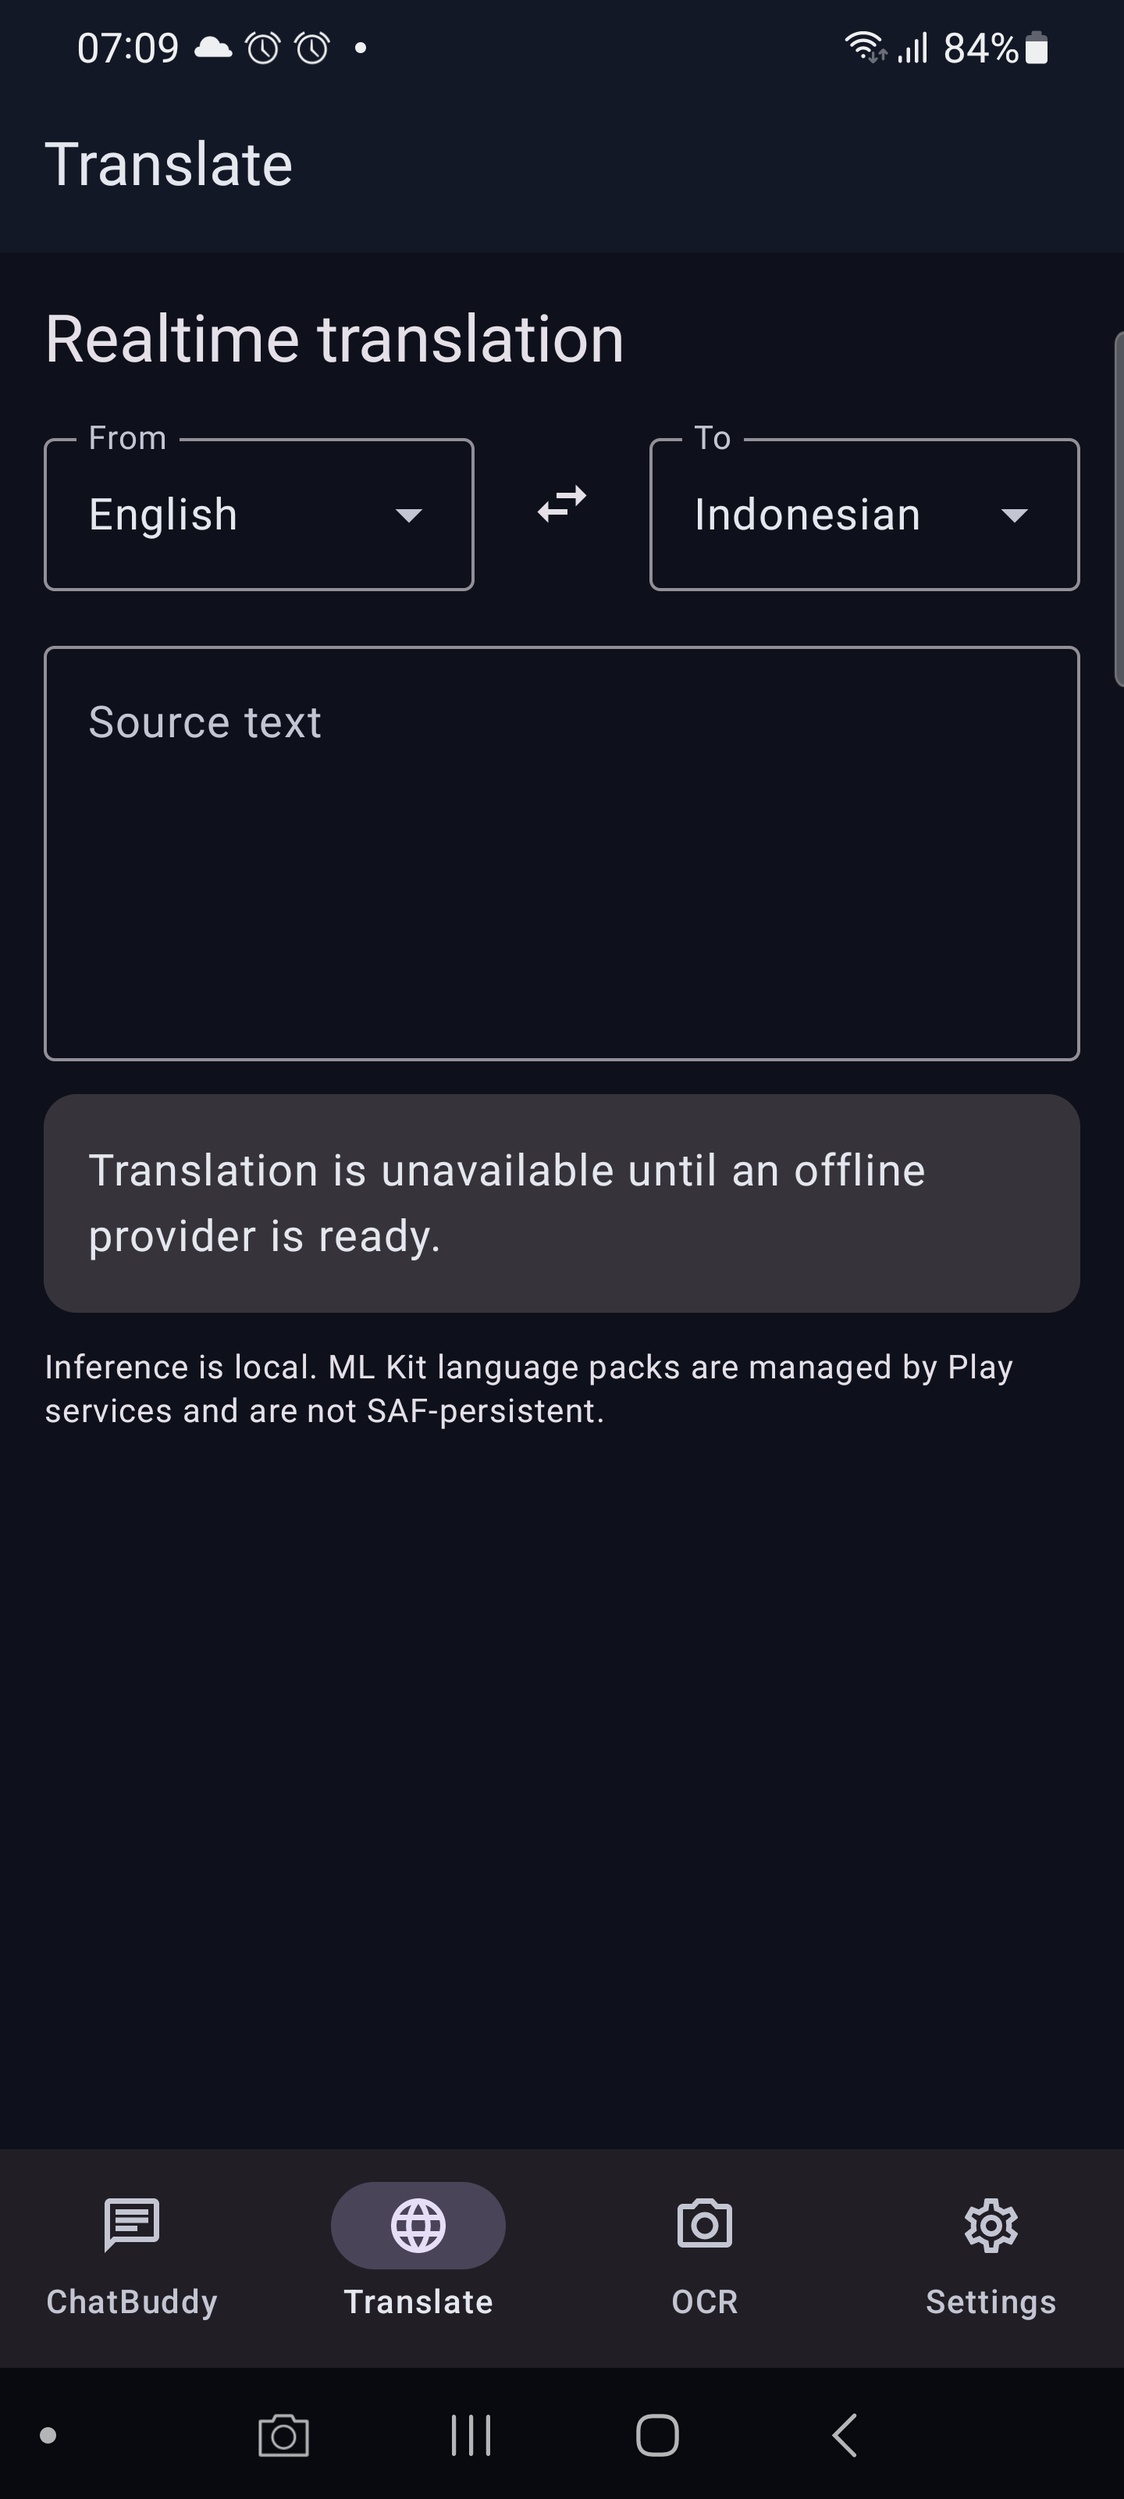
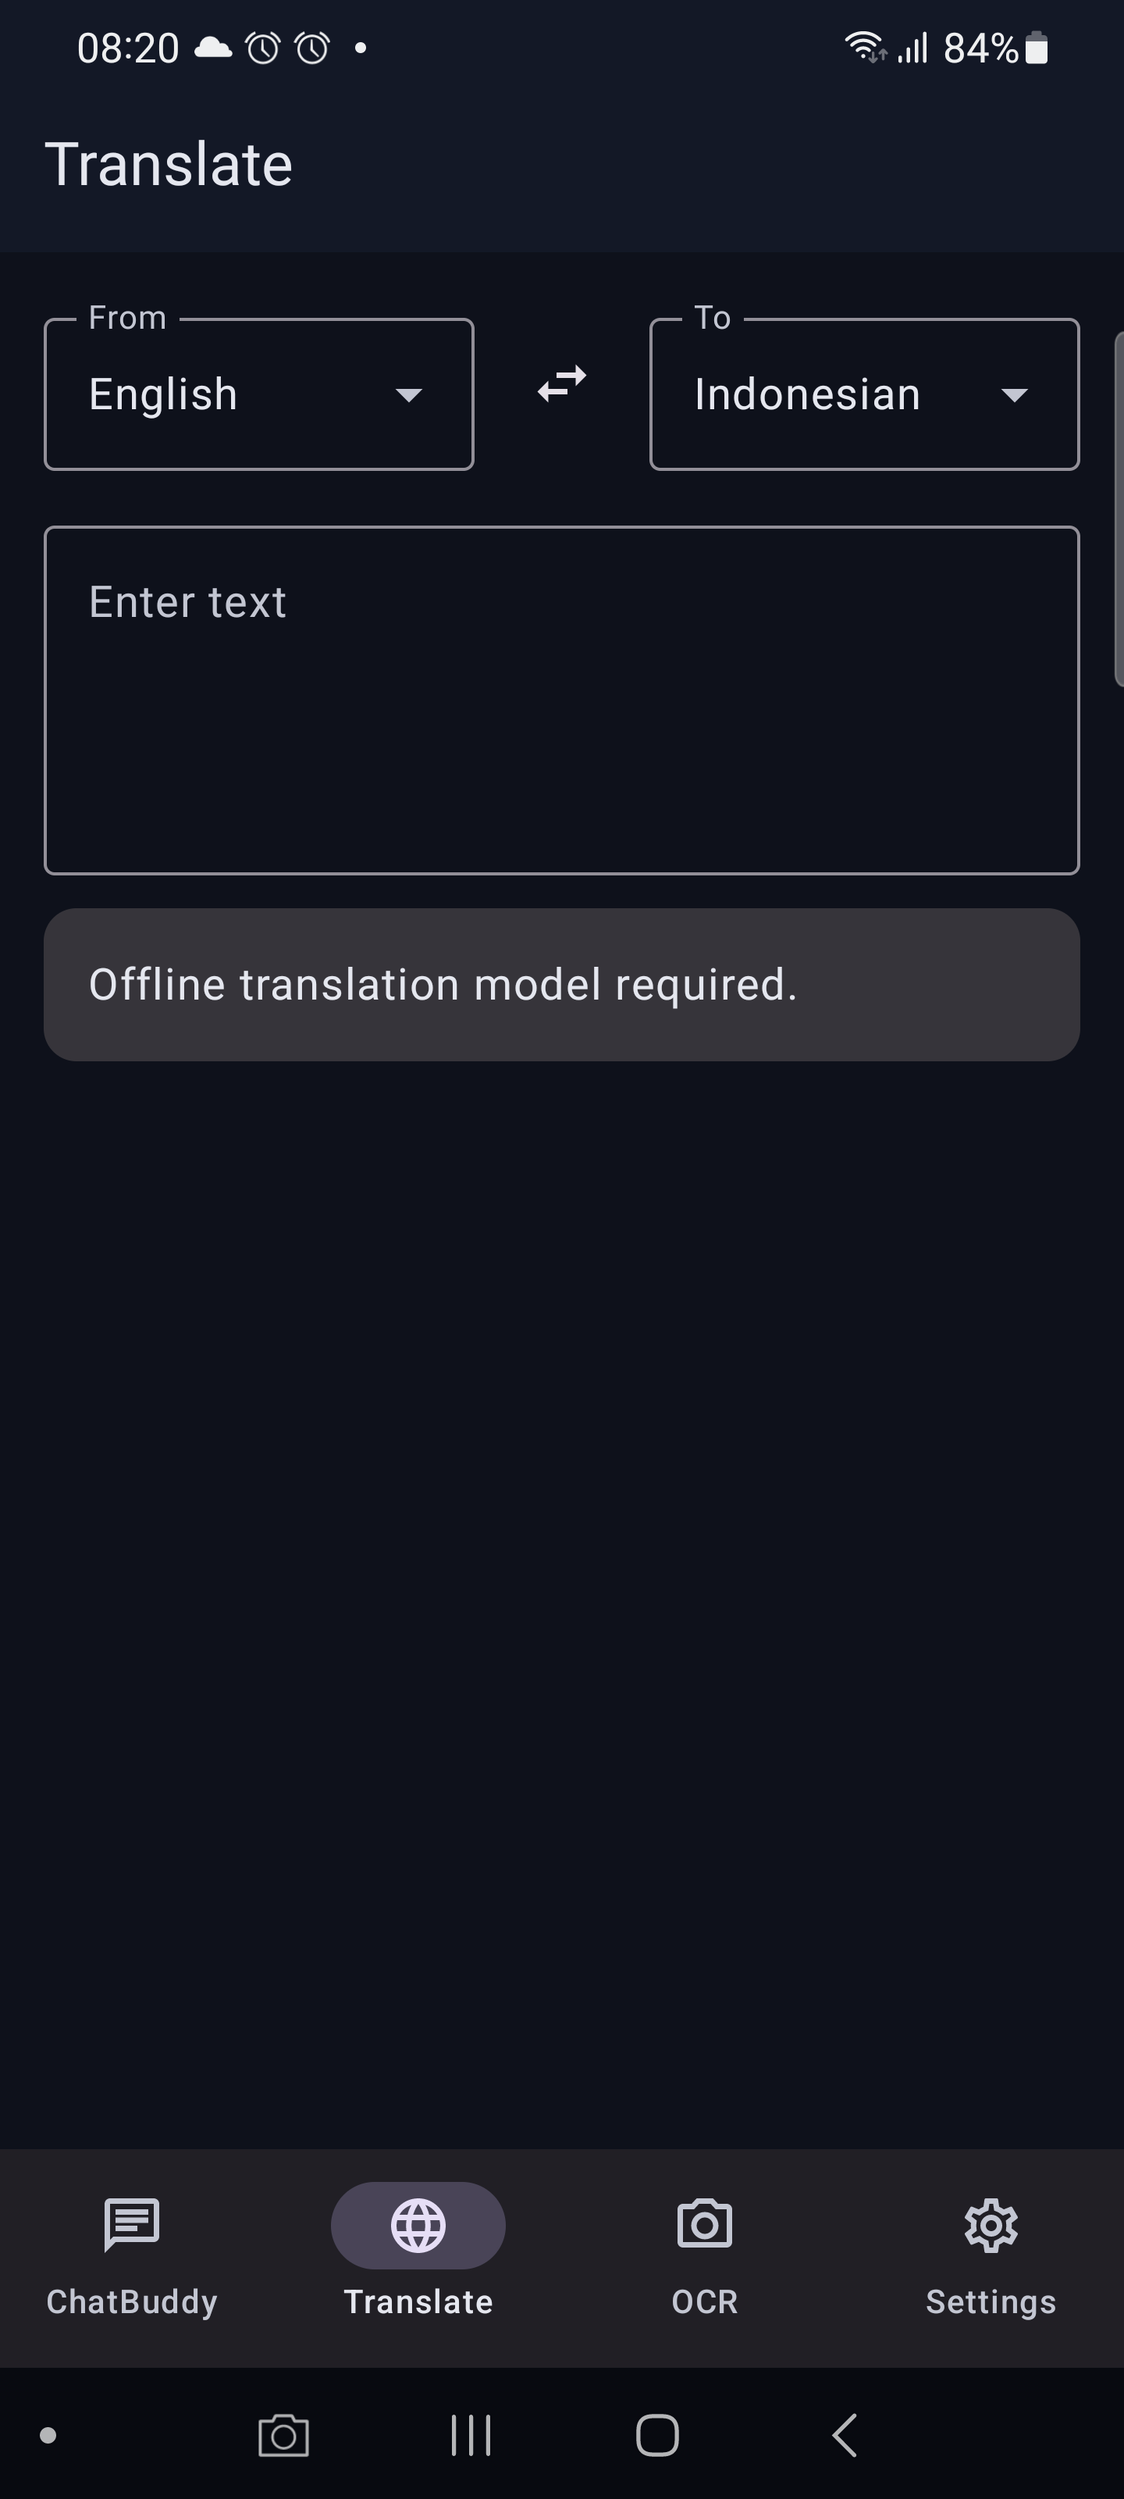
fix: make translation language dropdown searchable

diff --git a/app/src/main/java/com/chatbuddy/presentation/ChatBuddyApp.kt b/app/src/main/java/com/chatbuddy/presentation/ChatBuddyApp.kt
@@ -34,11 +34,8 @@ import androidx.compose.material3.Button
 import androidx.compose.material3.Checkbox
 import androidx.compose.material3.Card
 import androidx.compose.material3.ExperimentalMaterial3Api
-import androidx.compose.material3.ExposedDropdownMenuBox
-import androidx.compose.material3.ExposedDropdownMenuDefaults
 import androidx.compose.material3.Icon
 import androidx.compose.material3.IconButton
-import androidx.compose.material3.DropdownMenuItem
 import androidx.compose.material3.LinearProgressIndicator
 import androidx.compose.material3.MaterialTheme
 import androidx.compose.material3.NavigationBar
@@ -74,13 +71,14 @@ import androidx.compose.material3.windowsizeclass.WindowSizeClass
 import androidx.compose.material3.windowsizeclass.WindowWidthSizeClass
 import androidx.compose.material3.windowsizeclass.ExperimentalMaterial3WindowSizeClassApi
 import com.chatbuddy.domain.model.ModelStatus
-import com.chatbuddy.domain.model.LanguageOption
+import com.chatbuddy.domain.model.TranslationProviderKind
 import com.chatbuddy.presentation.common.ModelGate
 import com.chatbuddy.presentation.home.HomeTab
 import com.chatbuddy.presentation.home.HomeUiState
 import com.chatbuddy.presentation.home.HomeViewModel
 import com.chatbuddy.presentation.chat.ChatViewModel
 import com.chatbuddy.presentation.translate.TranslationViewModel
+import com.chatbuddy.presentation.translate.LanguageDropdown
 import com.chatbuddy.presentation.ocr.OcrViewModel
 import com.chatbuddy.presentation.ocr.CameraPreview
 import com.chatbuddy.presentation.settings.PersonaViewModel
@@ -227,7 +225,6 @@ private fun TranslateTab(state: HomeUiState, homeViewModel: HomeViewModel) {
         }
     }
     Column(verticalArrangement = Arrangement.spacedBy(12.dp)) {
-        Text("Realtime translation", style = MaterialTheme.typography.headlineSmall)
         Row(
             modifier = Modifier.fillMaxWidth(),
             horizontalArrangement = Arrangement.spacedBy(8.dp),
@@ -257,15 +254,16 @@ private fun TranslateTab(state: HomeUiState, homeViewModel: HomeViewModel) {
         OutlinedTextField(
             value = translationState.sourceText,
             onValueChange = viewModel::setSourceText,
-            label = { Text("Source text") },
+            label = { Text("Enter text") },
             modifier = Modifier.fillMaxWidth(),
-            minLines = 5
+            minLines = 4,
+            maxLines = 8
         )
         Card(modifier = Modifier.fillMaxWidth()) {
             Column(modifier = Modifier.padding(16.dp), verticalArrangement = Arrangement.spacedBy(8.dp)) {
                 Text(
                     translationState.result?.text.orEmpty().ifBlank {
-                        "Translation is unavailable until an offline provider is ready."
+                        "Offline translation model required."
                     }
                 )
                 if (translationState.loading) LinearProgressIndicator(modifier = Modifier.fillMaxWidth())
@@ -275,62 +273,19 @@ private fun TranslateTab(state: HomeUiState, homeViewModel: HomeViewModel) {
                         val context = LocalContext.current
                         IconButton(onClick = { clipboard.setText(AnnotatedString(result.text)) }) { Icon(Icons.Outlined.ContentCopy, "Copy translation") }
                         IconButton(onClick = { shareText(context, result.text) }) { Icon(Icons.Outlined.Share, "Share translation") }
-                        Text(result.provider.name, modifier = Modifier.padding(start = 8.dp, top = 12.dp), style = MaterialTheme.typography.labelSmall)
+                        Text(providerLabel(result.provider), modifier = Modifier.padding(start = 8.dp, top = 12.dp), style = MaterialTheme.typography.labelSmall)
                     }
                 }
                 translationState.error?.let { Text(it, color = MaterialTheme.colorScheme.error) }
             }
         }
-        Text("Inference is local. ML Kit language packs are managed by Play services and are not SAF-persistent.", style = MaterialTheme.typography.bodySmall)
     }
 }
 
-@OptIn(ExperimentalMaterial3Api::class)
-@Composable
-private fun LanguageDropdown(
-    label: String,
-    selected: String,
-    languages: List<LanguageOption>,
-    onSelected: (String) -> Unit,
-    modifier: Modifier = Modifier
-) {
-    var expanded by rememberSaveable(label) { mutableStateOf(false) }
-    val selectedLanguage = languages.firstOrNull { it.tag == selected }
-    val isAvailable = languages.isNotEmpty()
-
-    ExposedDropdownMenuBox(
-        expanded = expanded,
-        onExpandedChange = { expanded = it },
-        modifier = modifier
-    ) {
-        OutlinedTextField(
-            value = selectedLanguage?.displayName ?: selected.ifBlank { "Unavailable" },
-            onValueChange = {},
-            readOnly = true,
-            enabled = isAvailable,
-            singleLine = true,
-            label = { Text(label) },
-            trailingIcon = { ExposedDropdownMenuDefaults.TrailingIcon(expanded = expanded) },
-            modifier = Modifier
-                .menuAnchor()
-                .fillMaxWidth()
-                .semantics { contentDescription = "$label language selector" }
-        )
-        ExposedDropdownMenu(
-            expanded = expanded,
-            onDismissRequest = { expanded = false }
-        ) {
-            languages.forEach { language ->
-                DropdownMenuItem(
-                    text = { Text(language.displayName) },
-                    onClick = {
-                        expanded = false
-                        onSelected(language.tag)
-                    }
-                )
-            }
-        }
-    }
+private fun providerLabel(provider: TranslationProviderKind): String = when (provider) {
+    TranslationProviderKind.ML_KIT_PLAY_SERVICES -> "Play services"
+    TranslationProviderKind.LOCAL_OPUS_ONNX -> "Local model"
+    TranslationProviderKind.UNAVAILABLE -> "Unavailable"
 }
 
 @Composable

diff --git a/app/src/main/java/com/chatbuddy/presentation/translate/LanguageDropdown.kt b/app/src/main/java/com/chatbuddy/presentation/translate/LanguageDropdown.kt
@@ -1,0 +1,100 @@
+package com.chatbuddy.presentation.translate
+
+import androidx.compose.foundation.layout.fillMaxWidth
+import androidx.compose.foundation.layout.heightIn
+import androidx.compose.foundation.text.KeyboardOptions
+import androidx.compose.material3.DropdownMenuItem
+import androidx.compose.material3.ExperimentalMaterial3Api
+import androidx.compose.material3.ExposedDropdownMenuBox
+import androidx.compose.material3.ExposedDropdownMenuDefaults
+import androidx.compose.material3.OutlinedTextField
+import androidx.compose.material3.Text
+import androidx.compose.runtime.Composable
+import androidx.compose.runtime.LaunchedEffect
+import androidx.compose.runtime.getValue
+import androidx.compose.runtime.mutableStateOf
+import androidx.compose.runtime.remember
+import androidx.compose.runtime.saveable.rememberSaveable
+import androidx.compose.runtime.setValue
+import androidx.compose.ui.Modifier
+import androidx.compose.ui.semantics.contentDescription
+import androidx.compose.ui.semantics.semantics
+import androidx.compose.ui.text.input.ImeAction
+import androidx.compose.ui.unit.dp
+import com.chatbuddy.domain.model.LanguageOption
+import java.util.Locale
+
+@OptIn(ExperimentalMaterial3Api::class)
+@Composable
+internal fun LanguageDropdown(
+    label: String,
+    selected: String,
+    languages: List<LanguageOption>,
+    onSelected: (String) -> Unit,
+    modifier: Modifier = Modifier
+) {
+    var expanded by rememberSaveable(label) { mutableStateOf(false) }
+    var query by rememberSaveable("${label}Query") { mutableStateOf("") }
+    val selectedLanguage = languages.firstOrNull { it.tag == selected }
+    val canExpand = languages.isNotEmpty()
+    val filteredLanguages = remember(languages, query) {
+        val normalizedQuery = query.trim().lowercase(Locale.ROOT)
+        languages.filter { language ->
+            normalizedQuery.isBlank() ||
+                language.displayName.lowercase(Locale.ROOT).contains(normalizedQuery) ||
+                language.tag.lowercase(Locale.ROOT).contains(normalizedQuery)
+        }
+    }
+    val menuExpanded = expanded && filteredLanguages.isNotEmpty()
+
+    LaunchedEffect(selected, selectedLanguage?.displayName) {
+        query = selectedLanguage?.displayName ?: selected.ifBlank { "" }
+    }
+
+    ExposedDropdownMenuBox(
+        expanded = menuExpanded,
+        onExpandedChange = {
+            if (canExpand) {
+                expanded = it
+                if (it) query = ""
+            }
+        },
+        modifier = modifier
+    ) {
+        OutlinedTextField(
+            value = query,
+            onValueChange = {
+                query = it
+                expanded = canExpand
+            },
+            enabled = canExpand,
+            singleLine = true,
+            label = { Text(label) },
+            keyboardOptions = KeyboardOptions(imeAction = ImeAction.Search),
+            trailingIcon = { ExposedDropdownMenuDefaults.TrailingIcon(expanded = menuExpanded) },
+            modifier = Modifier
+                .menuAnchor()
+                .fillMaxWidth()
+                .semantics { contentDescription = "$label language search" }
+        )
+        ExposedDropdownMenu(
+            expanded = menuExpanded,
+            onDismissRequest = {
+                expanded = false
+                query = selectedLanguage?.displayName ?: selected.ifBlank { "" }
+            },
+            modifier = Modifier.heightIn(max = 280.dp)
+        ) {
+            filteredLanguages.forEach { language ->
+                DropdownMenuItem(
+                    text = { Text(language.displayName) },
+                    onClick = {
+                        query = language.displayName
+                        expanded = false
+                        onSelected(language.tag)
+                    }
+                )
+            }
+        }
+    }
+}

diff --git a/app/src/androidTest/java/com/chatbuddy/presentation/translate/LanguageDropdownTest.kt b/app/src/androidTest/java/com/chatbuddy/presentation/translate/LanguageDropdownTest.kt
@@ -1,0 +1,76 @@
+package com.chatbuddy.presentation.translate
+
+import androidx.compose.ui.test.assertIsDisplayed
+import androidx.compose.ui.test.hasSetTextAction
+import androidx.compose.ui.test.onAllNodesWithText
+import androidx.compose.ui.test.onNodeWithText
+import androidx.compose.ui.test.performClick
+import androidx.compose.ui.test.performTextClearance
+import androidx.compose.ui.test.performTextInput
+import androidx.compose.ui.test.junit4.createComposeRule
+import androidx.compose.material3.Text
+import androidx.compose.runtime.getValue
+import androidx.compose.runtime.mutableStateOf
+import androidx.compose.runtime.setValue
+import androidx.compose.ui.Modifier
+import com.chatbuddy.domain.model.LanguageOption
+import com.chatbuddy.ui.theme.ChatBuddyTheme
+import org.junit.Assert.assertEquals
+import org.junit.Rule
+import org.junit.Test
+
+class LanguageDropdownTest {
+    @get:Rule
+    val composeRule = createComposeRule()
+
+    @Test
+    fun inputFiltersLanguagesAndSelectingOptionUpdatesCallback() {
+        var selectedTag by mutableStateOf("en")
+        composeRule.setContent {
+            ChatBuddyTheme {
+                LanguageDropdown(
+                    label = "From",
+                    selected = selectedTag,
+                    languages = listOf(
+                        LanguageOption("en", "English"),
+                        LanguageOption("id", "Indonesian"),
+                        LanguageOption("ja", "Japanese")
+                    ),
+                    onSelected = { selectedTag = it },
+                    modifier = Modifier
+                )
+            }
+        }
+
+        val languageField = composeRule.onNode(hasSetTextAction())
+        languageField.performTextClearance()
+        languageField.performTextInput("indo")
+        assertEquals(
+            1,
+            composeRule.onAllNodesWithText("Indonesian").fetchSemanticsNodes().size
+        )
+        composeRule.onAllNodesWithText("Indonesian")[0]
+            .assertIsDisplayed()
+            .performClick()
+        composeRule.runOnIdle { assertEquals("id", selectedTag) }
+    }
+
+    @Test
+    fun emptyLanguageListDisablesInput() {
+        composeRule.setContent {
+            ChatBuddyTheme {
+                LanguageDropdown(
+                    label = "To",
+                    selected = "",
+                    languages = emptyList(),
+                    onSelected = {},
+                    modifier = Modifier
+                )
+                Text("Ready")
+            }
+        }
+
+        composeRule.onNodeWithText("To").assertIsDisplayed()
+        composeRule.onNodeWithText("Ready").assertIsDisplayed()
+    }
+}

diff --git a/README.md b/README.md
@@ -85,11 +85,11 @@ Device baseline yang direncanakan: Samsung `SM-G988B`, Android 13 (`RRCN3008VYE`
 - `:app:testDebugUnitTest` — pass.
 - `:app:lintDebug` — pass; lint menyisakan warning dependency/deprecation, tanpa error.
 - `:app:externalNativeBuildDebug` dan `:app:assembleDebug` — pass untuk `arm64-v8a` dan `armeabi-v7a`.
-- `:app:connectedDebugAndroidTest` — 2/2 pass pada `SM-G988B - 13`.
+- `:app:connectedDebugAndroidTest` — 5/5 pass pada `SM-G988B - 13`, termasuk editable language dropdown.
 - APK terbaru berhasil dipasang dan diluncurkan pada `RRCN3008VYE`; accessibility dump melaporkan package `com.chatbuddy`, tombol SAF, dan empat tab navigasi. Tidak ada `FATAL EXCEPTION` pada smoke log.
 - Preview aktual tersedia untuk onboarding, Translate, dropdown bahasa Translate, OCR, Settings, dan landscape. `preview/chatbuddy-device.png` adalah preview utama README.
-- `2026-08-20`: layar Translate diverifikasi pada `SM-G988B` dengan exposed dropdown `From`/`To`, popup daftar bahasa, tombol swap, dan layout compact portrait; tidak ada chip selector.
[1 lines of base64/hex data omitted]
+- `2026-08-20`: layar Translate diverifikasi pada `SM-G988B` dengan exposed autocomplete dropdown `From`/`To`, popup daftar bahasa, keyboard input, tombol swap, dan layout compact portrait; tidak ada chip selector.
[1 lines of base64/hex data omitted]
 
 Evidence ini membuktikan build, UI shell, navigation, dan launch; tidak membuktikan inferensi atau ingestion tanpa artifact model/runtime yang benar-benar diunduh dan diverifikasi.
 
@@ -97,7 +97,7 @@ Evidence ini membuktikan build, UI shell, navigation, dan launch; tidak membukti
 
 - `:app:compileDebugKotlin` dan `:app:compileDebugAndroidTestKotlin` — pass.
 - `:app:testDebugUnitTest`, `:app:lintDebug`, dan `:app:assembleDebug` — pass.
-- `:app:connectedDebugAndroidTest` — 3/3 pass pada `SM-G988B - 13`, termasuk callback Download dan Pause pada ModelGate.
+- `:app:connectedDebugAndroidTest` — 5/5 pass pada `SM-G988B - 13`, termasuk callback Download/Pause pada ModelGate dan filtering/selection language dropdown.
 - APK debug berhasil dipasang dan cold-launched pada `RRCN3008VYE`; `dumpsys` mengonfirmasi `com.chatbuddy/.MainActivity` sebagai resumed dan smoke log tidak menunjukkan crash aplikasi.
 - Transfer Gemma tidak dimulai otomatis selama smoke karena artifact sekitar 2.84 GB; state dan callback diuji tanpa menggunakan bandwidth/storage pengguna secara diam-diam. Sesi transfer nyata tetap membutuhkan tap pengguna, folder SAF, jaringan, checksum, dan ruang penyimpanan yang cukup.
 

diff --git a/architecture/DECISIONS.md b/architecture/DECISIONS.md
@@ -30,9 +30,9 @@ The supplied `docs/**` directories are not copied into product source and are ig
 
 ## ADR-008 — translation language selection uses dropdown fields
 
-The translation screen uses two Material 3 exposed dropdown fields labelled `From` and `To`, with a separate icon button for swapping the direction. Language options come from the real `TranslationUiState.languages` list; an empty provider list disables the selectors instead of inventing language options. This removes the pill/chip-like language controls while keeping the interaction recognizable as a translation flow.
+The translation screen uses two Material 3 exposed dropdown fields labelled `From` and `To`, with editable autocomplete input and a separate icon button for swapping the direction. Typing filters the real `TranslationUiState.languages` list by display name or language tag; selecting an item commits its tag, while an empty provider list disables the selectors instead of inventing language options. This removes the pill/chip-like language controls while keeping the interaction recognizable as a translation flow.
 
-This follows Android's exposed-dropdown guidance, which pairs a read-only text field with a menu, and the Android Google Translate flow, which presents `From` and `To` language selectors plus a reverse action:
+This follows Android's exposed-dropdown guidance for editable autocomplete fields and the Android Google Translate flow, which presents `From` and `To` language selectors plus a reverse action:
 
 - https://developer.android.com/reference/kotlin/androidx/compose/material3/ExposedDropdownMenuBox.composable
 - https://support.google.com/translate/answer/6142478?co=GENIE.Platform%3DAndroid&hl=en
